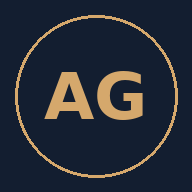
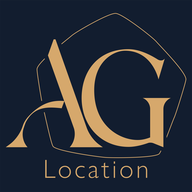
Add files via upload

Changed region(s): [[0.0312, 0.0625, 0.9688, 0.9375], [0.4062, 0.8438, 0.4375, 0.875]]

diff --git a/index.html b/index.html
@@ -61,6 +61,7 @@ button, input, select, textarea { font-family: inherit; }
   flex-wrap: wrap;
   border-bottom: 3px solid var(--gold);
 }
+.brand-logo { display: block; border-radius: 6px; flex-shrink: 0; }
 .brand { font-size: 20px; font-weight: 700; letter-spacing: 0.5px; }
 .brand-compact { font-size: 16px; }
 .brand-a { color: var(--gold); }
@@ -300,6 +301,9 @@ button, input, select, textarea { font-family: inherit; }
    AGLOC — Etat des lieux — logique applicative
    ========================================================================== */
 
+/* ---------- Logo AG Location (intégré en base64, utilisé dans l'en-tête et les PDF) ---------- */
[1 lines of base64/hex data omitted]
+
 /* ---------- Constantes charte / métier ---------- */
 const STATES = [
   { code: 'NEUF', label: 'Neuf',        color: '#1a6b3c' },
@@ -334,6 +338,13 @@ const METER_TYPES = ['Électricité HC Saison Basse', 'Électricité HP Saison B
 
 /* ---------- Utilitaires ---------- */
 function uid() { return Date.now().toString(36) + Math.random().toString(36).slice(2, 8); }
+
+function brandLogo(size) {
+  return el('img', {
+    class: 'brand-logo',
+    attrs: { src: LOGO_DATA_URL, alt: 'AG Location', style: 'height:' + (size || 36) + 'px;width:' + (size || 36) + 'px;' }
+  });
+}
 
 function el(tag, opts) {
   opts = opts || {};
@@ -636,6 +647,7 @@ async function renderHome() {
   App.innerHTML = '';
 
   const header = el('div', { class: 'topbar' }, );
+  header.appendChild(brandLogo(40));
   header.appendChild(el('div', { class: 'brand', html: '<span class="brand-a">AG</span>LOC' }));
   header.appendChild(el('div', { class: 'brand-sub', text: 'États des lieux' }));
   header.appendChild(el('button', { class: 'btn-back nav-right', text: '🗂 Mandataires & agences', on: { click: renderMandataires } }));
@@ -746,6 +758,7 @@ async function renderEditor(activeTab) {
 
   const header = el('div', { class: 'topbar' });
   header.appendChild(el('button', { class: 'btn-back', text: '← Accueil', on: { click: renderHome } }));
+  header.appendChild(brandLogo(28));
   header.appendChild(el('div', { class: 'brand brand-compact', html: '<span class="brand-a">AG</span>LOC' }));
   const titleBox = el('div', { class: 'insp-header-title' });
   titleBox.appendChild(el('span', { class: 'tag tag-' + CURRENT.type, text: typeLabel }));
@@ -938,6 +951,7 @@ async function renderMandataires() {
 
   const header = el('div', { class: 'topbar' });
   header.appendChild(el('button', { class: 'btn-back', text: '← Accueil', on: { click: renderHome } }));
+  header.appendChild(brandLogo(28));
   header.appendChild(el('div', { class: 'brand brand-compact', html: '<span class="brand-a">AG</span>LOC' }));
   header.appendChild(el('div', { class: 'insp-header-title', text: 'Mandataires & agences' }));
   App.appendChild(header);
@@ -1480,13 +1494,15 @@ async function generatePDF(insp) {
   function drawHeader() {
     doc.setFillColor(NAVY[0], NAVY[1], NAVY[2]);
     doc.rect(0, 0, pageW, 60, 'F');
+    try { doc.addImage(LOGO_DATA_URL, 'PNG', margin, 10, 40, 40); } catch (e) { /* logo indisponible */ }
+    const textX = margin + 48;
     doc.setTextColor(255, 255, 255);
     doc.setFont('helvetica', 'bold');
     doc.setFontSize(18);
-    doc.text('AGLOC', margin, 30);
+    doc.text('AGLOC', textX, 30);
     doc.setFont('helvetica', 'normal');
     doc.setFontSize(8.5);
-    doc.text('Accompagnement locatif — Groupe AG', margin, 44);
+    doc.text('Accompagnement locatif — Groupe AG', textX, 44);
     const title = insp.type === 'entree' ? "État des lieux d'entrée" : 'État des lieux de sortie';
     doc.setFont('helvetica', 'bold');
     doc.setFontSize(11);
